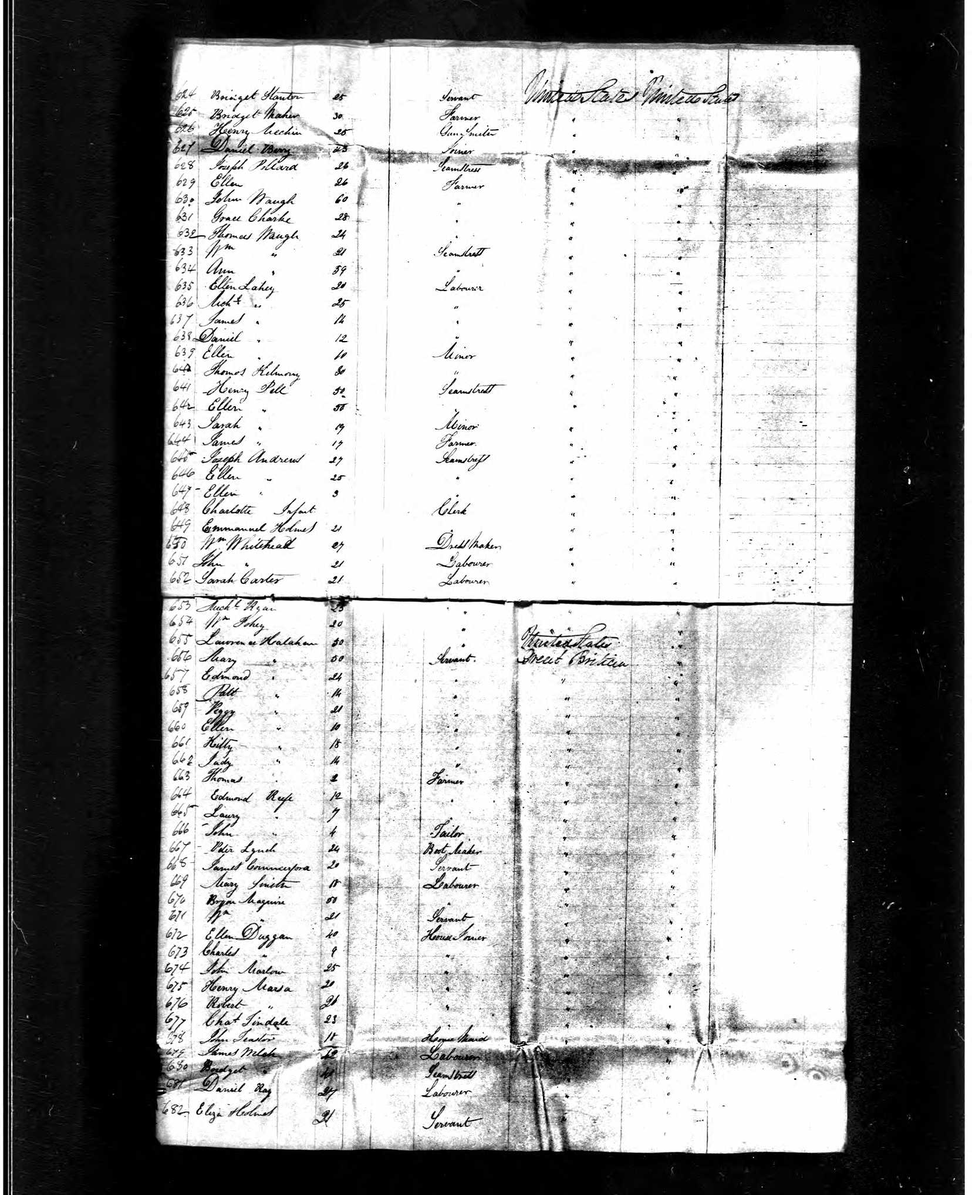
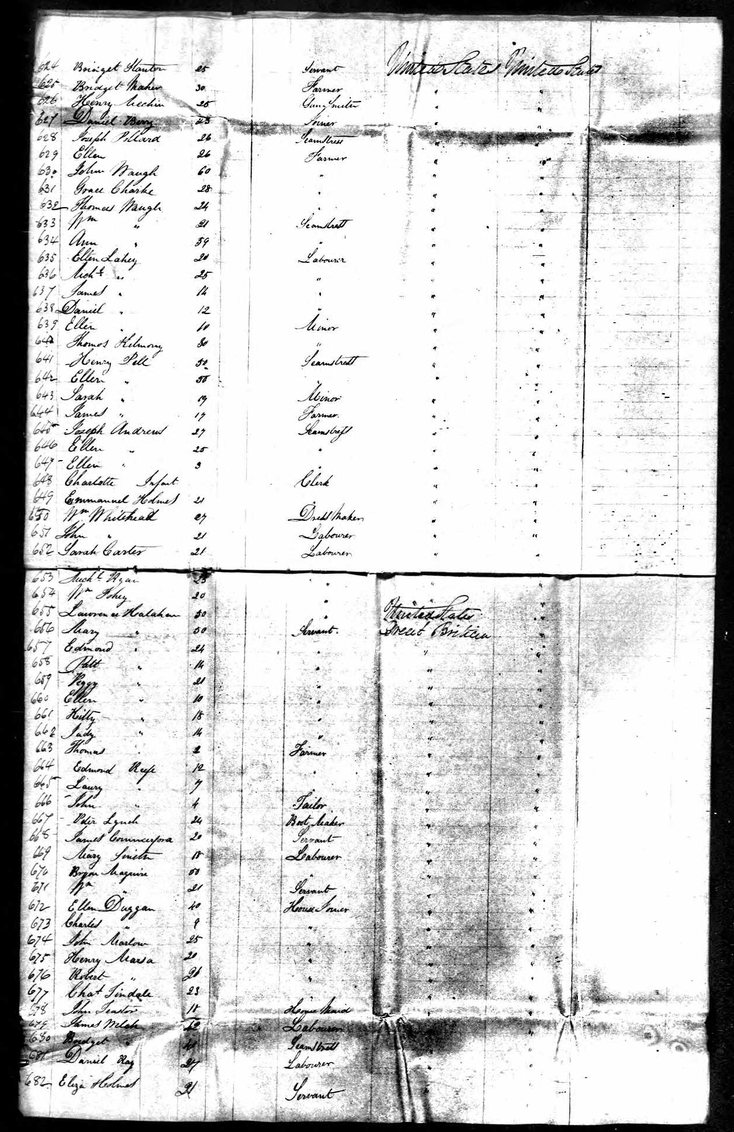
More Staten Island improvements

diff --git a/docs/people/mills-edward-hallock-1819-family/features/staten-island/index.html b/docs/people/mills-edward-hallock-1819-family/features/staten-island/index.html
@@ -22,7 +22,7 @@
 Friday 20 May 2022
 </time>
 </div><div>
-<p>It appears the Mills lived in Staten Island throughout much of the 1850&rsquo;s, and Edward may have lived there for a significant time prior. When the Mills married in 1850, Edward is said to be &ldquo;of Factoryville&rdquo;. All three Mills children were born in Staten Island. At one point, the Mills family lived with <a href=https://www.findagrave.com/memorial/199802084/bartlett-brown>Bartlett Brown</a> (1833 to 24 Nov 1902), who was also in the grocery business and appears to also be a protege of <a href=https://www.findagrave.com/memorial/199952123/charles-m-pine>Charles Mills Pine</a> (1812 to 8 Oct 1897). Charles Pine (who may have been related to Edward through Edward&rsquo;s mother) is listed as a co-owner of E. H. Mills & Co. in Corfu, but it&rsquo;s likely that Charles acted only as an investor, and perhaps also an adviser, in the business and was not involved in its day-to-day operation.</p><figure class=image style=max-width:400px><img src=/people/mills-edward-hallock-1819-family/assets/images/1851-01-03-Brooklyn-Daily-Eagle_huc08509a5fd9474424d13eb6f45834857_43206_400x0_resize_q75_box.jpg width=400 height=102 alt><blockquote>At Hempstead, L. I., Dec. 29, by the Rev. N.C. Locke, Mr. Edward H. Mills of Factoryville, S. I., to Miss Mary Ann Pine of the former place.</blockquote><figcaption>
+<p>It appears the Mills lived in Staten Island throughout the 1850&rsquo;s, and Edward may have lived there for a significant time prior. When the Mills married in 1850, Edward is said to be &ldquo;of Factoryville&rdquo;. All three Mills children were born in Staten Island. At one point, the Mills family lived with <a href=https://www.findagrave.com/memorial/199802084/bartlett-brown>Bartlett Brown</a> (1833 to 24 Nov 1902), who was also in the grocery business and appears to also be a protege of <a href=https://www.findagrave.com/memorial/199952123/charles-m-pine>Charles Mills Pine</a> (1812 to 8 Oct 1897). Charles Pine (who may have been related to Edward through Edward&rsquo;s mother) is listed as a co-owner of E. H. Mills & Co. in Corfu, but it&rsquo;s likely that Charles acted only as an investor, and perhaps also an adviser, in the business and was not involved in its day-to-day operation.</p><figure class=image style=max-width:500px><img src=/people/mills-edward-hallock-1819-family/assets/images/1851-01-03-Brooklyn-Daily-Eagle_huc08509a5fd9474424d13eb6f45834857_43206_500x0_resize_q75_box.jpg width=500 height=127 alt><blockquote>At Hempstead, L. I., Dec. 29, by the Rev. N.C. Locke, Mr. Edward H. Mills of Factoryville, S. I., to Miss Mary Ann Pine of the former place.</blockquote><figcaption>
 <p>— <cite>03 Jan 1851, The Brooklyn Daily Eagle, Brooklyn NY, p2, newspapers.com. </cite><a class=origversion href=/people/mills-edward-hallock-1819-family/assets/images/1851-01-03-Brooklyn-Daily-Eagle.jpg>View largest available size.</a></figcaption></figure></p><p>In the 1875 New York State Census, each of the children are listed with Staten Island as their birthplace (years 1852, 1854 and 1858), and they were still living in Staten Island in 1860 as reflected in the Federal Census:</p><div class=cols>
 <figure class=image style=max-width:300px><img src=/people/mills-edward-hallock-1819-family/assets/images/census/census-1860-us_hu4a999a4540b7075dfc0d87f56e447ac1_1739672_300x0_resize_q75_box.jpg width=300 height=412 alt><figcaption>
 <p>— <cite>1860, United States Federal Census, ancestry.com. </cite><a class=origversion href=/people/mills-edward-hallock-1819-family/assets/images/census/census-1860-us.jpg>View largest available size.</a></figcaption></figure></p><figure class=image style=max-width:300px><img src=/people/mills-edward-hallock-1819-family/assets/images/census/census-1875a-nys_hua5cc62b6c97b6d0db2d12f0aa08e8a06_2862862_300x0_resize_q75_box.jpg width=300 height=344 alt><figcaption>
@@ -33,10 +33,10 @@ FACTORYVILLE. West New Brighton. Map of the Village of Factoryville, owned and l
 William T. Davis, <a href=https://sites.google.com/a/nypl.org/staten-island-papers/old-place-names>Staten Island’s Old Place Names</a>.
 </figcaption></figure><p>The 1860 census also shows that Edward and his family are living with Bartlett Brown, and according to the following tax assessment, Bartlett also lists Factoryville in the &ldquo;Residence&rdquo; column.</p><figure class=image style=max-width:1000px><img src=/people/mills-edward-hallock-1819-family/assets/images/staten-island/1862-1863-irs-tax-assessment_hufaef511aea43f8665fab343aafc0b026_636065_1000x0_resize_q75_box.jpg width=1000 height=676 alt><figcaption>
 <p>— <cite>1862-1863, Tax Assessment, Internal Revenue Service, ancestry.com. </cite><a class=origversion href=/people/mills-edward-hallock-1819-family/assets/images/staten-island/1862-1863-irs-tax-assessment.jpg>View largest available size.</a></figcaption></figure></p><p>Barlett Brown was another protege of Charles Pine, both in the grocery business, and later, succeeding Charles as President of the Richmond County Mutual Insurance Company:</p><figure class=image style=max-width:700px><img src=/people/mills-edward-hallock-1819-family/assets/images/staten-island/1902-11-29-richmond-county-advance-p4_hu84e771bd5316aa9e30bdce146b15cc03_552519_700x400_fill_box_top_3.png width=700 height=400 alt><blockquote><p>Mr. Brown was born at Oak Farm, Long Island, and was one of ten children. His parents were among the most intelligent and estimable people of that section, and he was trained to many kinds of usefulness on the farm from a very early age. Indeed, the experiences which then came to him were invaluable, and fitted him in a superior degree for the diligent, manly and honorable life which succeeded.</p><p>He began business for himself as a coal and wood merchant in the city of Brooklyn, but later, <strong>in the year 1857, he accepted a position in the grocery store of Charles M. Pine at West Brighton, and remained there, highly esteemed by the proprietor and by the many customers, until the year 1859, when he purchased the valuable property at the corner of Broadway and Castleon avenue and began business in the same line for himself. He resided in the adjoining house with his family.</strong> He was a man of the very strictest integrity in all of his affairs, and with the merchants of the city with whom he dealt, and with the other people with whom he had financial relations, he was held in the highest regard. In 1892 he retired from active life.</p><p>He set a fine example with regard to everything in which he was engaged during the forty-seven years when he made Staten Island his home. Beside the store he had a profitable cranberry business at Calverton, L.I., which he sold to a brother two years ago.</p><p>(Partial transcription, emphasis added. Click on the accompanying link to view the full article.)</p></blockquote><figcaption>
-<p>— <cite>29 Nov 1902, Richmond County Advance, West New Brighton NY, p4, newspapers.com. </cite><a class=origversion href=/people/mills-edward-hallock-1819-family/assets/images/staten-island/1902-11-29-richmond-county-advance-p4.png>View largest available size.</a></figcaption></figure></p><p>If Bartlett&rsquo;s obituary is accurate, then in 1860, the Mills were residing with Bartlett at &ldquo;the adjoining house&rdquo; to &ldquo;the valuable property at the corner of Broadway and Castleton Avenue&rdquo;. Comparing a number of historical maps of Castleton to present day maps, it is striking how the major road names and their courses have remained the same over these many years. For example, note the consistency over time in the bends in the road where Broadway intersects Richmond Terrace near Kill Van Kull. In fact this area, described elsewhere as &ldquo;the bend between Van Street and Broadway&rdquo;, is the location of Pine, Hillyer & Co. general store in 1859, co-owned by Charles Pine and James Hillyer. (1930, Charles W. Leng and William T. Davis, Staten Island and Its People, Volume II, Lewis Historical Publishing Company Inc., NY, p651.)</p><p>The Beers map from 1874 shows &ldquo;B Brown&rdquo; in the southwest corner at Broadway and Castleton, and the &ldquo;adjoining house&rdquo; would seem to be the structure at the corner of State Street and Castleton Avenue. This interpretation appears to be corroborated by the 1886 edition of Webb&rsquo;s Consolidated Directory referenced below.</p><figure class=image style=max-width:800px><img src=/people/mills-edward-hallock-1819-family/assets/images/staten-island/1874-beers-map_hue983ae5ad5e218ddc9fb57192364963a_5278618_800x0_resize_q75_box.jpg width=800 height=549 alt><figcaption>
+<p>— <cite>29 Nov 1902, Richmond County Advance, West New Brighton NY, p4, newspapers.com. </cite><a class=origversion href=/people/mills-edward-hallock-1819-family/assets/images/staten-island/1902-11-29-richmond-county-advance-p4.png>View largest available size.</a></figcaption></figure></p><p>Comparing a number of historical maps of Castleton to present day maps, it is striking how the major road names and their courses have remained the same over these many years. For example, note the consistency over time in the bends in the road where Broadway intersects Richmond Terrace near Kill Van Kull. In fact this area, described elsewhere as &ldquo;the bend between Van Street and Broadway&rdquo;, is the location of Pine, Hillyer & Co. general store in 1859, co-owned by Charles Pine and James Hillyer. (1930, Charles W. Leng and William T. Davis, Staten Island and Its People, Volume II, Lewis Historical Publishing Company Inc., NY, p651.)</p><p>If Bartlett&rsquo;s obituary is accurate, then it seems likely that in 1860, the Mills were residing with Bartlett at &ldquo;the adjoining house&rdquo; to &ldquo;the valuable property at the corner of Broadway and Castleton Avenue&rdquo;. The Beers map from 1874 shows &ldquo;B Brown&rdquo; in the southwest corner at Broadway and Castleton, and the &ldquo;adjoining house&rdquo; would seem to be the structure at the corner of State Street and Castleton Avenue. This interpretation appears to be corroborated by the 1886 edition of Webb&rsquo;s Consolidated Directory referenced below.</p><figure class=image style=max-width:800px><img src=/people/mills-edward-hallock-1819-family/assets/images/staten-island/1874-beers-map_hue983ae5ad5e218ddc9fb57192364963a_5278618_800x0_resize_q75_box.jpg width=800 height=549 alt><figcaption>
 <p>— <cite>‘Lionel Pincus and Princess Firyal Map Division, The New York Public Library. “Atlas of Staten Island, Richmond County, New York, from official records and surveys; compiled and drawn by F. W. Beers” The New York Public Library Digital Collections. 1874. <a href=https://digitalcollections.nypl.org/items/510d47e2-0b93-a3d9-e040-e00a18064a99><a href=https://digitalcollections.nypl.org/items/510d47e2-0b93-a3d9-e040-e00a18064a99>https://digitalcollections.nypl.org/items/510d47e2-0b93-a3d9-e040-e00a18064a99</a></a>’. </cite><a class=origversion href=/people/mills-edward-hallock-1819-family/assets/images/staten-island/1874-beers-map.jpg>View largest available size.</a></figcaption></figure></p><p>A closer view:</p><figure class=image style=max-width:800px><img src=/people/mills-edward-hallock-1819-family/assets/images/staten-island/1874-beers-map-cropped_huc1c3a41174cd83dba7540e3711fb3174_2396305_800x0_resize_q75_box.jpg width=800 height=720 alt><figcaption>
-<p>— <cite>‘Lionel Pincus and Princess Firyal Map Division, The New York Public Library. “Atlas of Staten Island, Richmond County, New York, from official records and surveys; compiled and drawn by F. W. Beers” The New York Public Library Digital Collections. 1874. <a href=https://digitalcollections.nypl.org/items/510d47e2-0b93-a3d9-e040-e00a18064a99><a href=https://digitalcollections.nypl.org/items/510d47e2-0b93-a3d9-e040-e00a18064a99>https://digitalcollections.nypl.org/items/510d47e2-0b93-a3d9-e040-e00a18064a99</a></a>’. </cite><a class=origversion href=/people/mills-edward-hallock-1819-family/assets/images/staten-island/1874-beers-map-cropped.jpg>View largest available size.</a></figcaption></figure></p><p>This Staten Island Directory from 1886 lists Barlett Brown’s store, referencing the residence at 114 Broadway that was mentioned in his obituary, as well as a reference to the corner of State Street and Castleton Avenue:</p><figure class=image style=max-width:500px><img src=/people/mills-edward-hallock-1819-family/assets/images/staten-island/1886-staten-island-directory-p117_hudb6d3a8b80f6f6f32248216d0afd22e7_71905_500x0_resize_q75_box.jpg width=500 height=32 alt><blockquote>Brown Bartlett, gro, 114 B&rsquo;way, h State n Cas av, W N B</blockquote><figcaption>
-<p>— <cite>1886 Webb’s Consolidated Directory of the North and South Shores Staten Island, p117, ancestry.com. </cite><a class=origversion href=/people/mills-edward-hallock-1819-family/assets/images/staten-island/1886-staten-island-directory-p117.jpg>View largest available size.</a></figcaption><aside><ul></p><li>The directory lists the following for abbreviations: &ldquo;gro, grocer; h, house; &mldr; n, near; &mldr; W N B, West New Brighton;&rdquo;. Also noted: &ldquo;The capital letter or letters at the end of each line indicates the railroad station nearest to or most convenient to the address given.&rdquo;</li></ul></aside></figure><p>Other maps showing this property include the Colton and Dripps maps:</p><figure class=image style=max-width:800px><img src=/people/mills-edward-hallock-1819-family/assets/images/staten-island/1866-colton-map-cropped_hu1bbfdb02c7825610037c946da4caec3e_465319_800x0_resize_q75_box.jpg width=800 height=592 alt><figcaption>
+<p>— <cite>‘Lionel Pincus and Princess Firyal Map Division, The New York Public Library. “Atlas of Staten Island, Richmond County, New York, from official records and surveys; compiled and drawn by F. W. Beers” The New York Public Library Digital Collections. 1874. <a href=https://digitalcollections.nypl.org/items/510d47e2-0b93-a3d9-e040-e00a18064a99><a href=https://digitalcollections.nypl.org/items/510d47e2-0b93-a3d9-e040-e00a18064a99>https://digitalcollections.nypl.org/items/510d47e2-0b93-a3d9-e040-e00a18064a99</a></a>’. </cite><a class=origversion href=/people/mills-edward-hallock-1819-family/assets/images/staten-island/1874-beers-map-cropped.jpg>View largest available size.</a></figcaption></figure></p><p>This Staten Island Directory from 1886 lists Barlett Brown’s store, referencing the residence at 114 Broadway that was mentioned in his obituary, as well as a reference to the home on the corner of State Street and Castleton Avenue:</p><figure class=image style=max-width:500px><img src=/people/mills-edward-hallock-1819-family/assets/images/staten-island/1886-staten-island-directory-p117_hudb6d3a8b80f6f6f32248216d0afd22e7_71905_500x0_resize_q75_box.jpg width=500 height=32 alt><blockquote>Brown Bartlett, gro, 114 B&rsquo;way, h State n Cas av, W N B</blockquote><figcaption>
+<p>— <cite>1886 Webb’s Consolidated Directory of the North and South Shores Staten Island, p117, ancestry.com. </cite><a class=origversion href=/people/mills-edward-hallock-1819-family/assets/images/staten-island/1886-staten-island-directory-p117.jpg>View largest available size.</a></figcaption><aside><ul></p><li>The directory lists the following for abbreviations: &ldquo;gro, grocer; h, house; &mldr; n, near; &mldr; W N B, West New Brighton;&rdquo;. Also noted: &ldquo;The capital letter or letters at the end of each line indicates the railroad station nearest to or most convenient to the address given.&rdquo;</li></ul></aside></figure><p>If I understand the maps and references correctly, Brown&rsquo;s store front faced Broadway and the front of the home faced the opposite direction onto State Street.</p><p>Other maps showing this property include the Colton and Dripps maps:</p><figure class=image style=max-width:800px><img src=/people/mills-edward-hallock-1819-family/assets/images/staten-island/1866-colton-map-cropped_hu1bbfdb02c7825610037c946da4caec3e_465319_800x0_resize_q75_box.jpg width=800 height=592 alt><figcaption>
 <p>— <cite>Lionel Pincus and Princess Firyal Map Division, The New York Public Library. “Map of Staten Island, Richmond County, State of New York” The New York Public Library Digital Collections. 1866. <a href=https://digitalcollections.nypl.org/items/00e88990-1d60-0131-f6f3-58d385a7b928><a href=https://digitalcollections.nypl.org/items/00e88990-1d60-0131-f6f3-58d385a7b928>https://digitalcollections.nypl.org/items/00e88990-1d60-0131-f6f3-58d385a7b928</a></a>. </cite><a class=origversion href=/people/mills-edward-hallock-1819-family/assets/images/staten-island/1866-colton-map-cropped.jpg>View largest available size.</a></figcaption></figure></p><figure class=image style=max-width:800px><img src=/people/mills-edward-hallock-1819-family/assets/images/staten-island/1872-dripps-map-cropped_hue742d91428d0b5e84623ce45f9418f37_628647_800x0_resize_q75_box.jpg width=800 height=611 alt><figcaption>
 <p>— <cite>Map of Staten Island (Richmond Co.) N.Y. Also cities of Bayonne & Perth Amboy, and village of Woodbridge, N.J. Shewing topography, farms, shore soundings &c. Published by M. Dripps, 34 Vesey St., N.Y. Mayer & Merkel, Lith., 24 Church St., N.Y. 1872., David Rumsey Map Collection, davidrumsey.com. </cite><a class=origversion href=/people/mills-edward-hallock-1819-family/assets/images/staten-island/1872-dripps-map-cropped.jpg>View largest available size.</a></figcaption></figure></p><p>A partial timeline of events in Staten Island while the Mills lived there:</p><figure class=quote-only>
 <blockquote>
@@ -46,7 +46,7 @@ Time Line, <a href=https://www.statenislandhistorian.com/time-line.html>Staten I
 <p>— <cite>1865, New York, U.S., State Census, ancestry.com. </cite><a class=origversion href=/people/mills-edward-hallock-1819-family/assets/images/staten-island/census-1865-nys-brown.jpg>View largest available size.</a></figcaption></figure></p><p>As already mentioned, Charles M. Pine and James Hillyer were listed as co-owners of E. H. Mills & Co. in Corfu:</p><figure class=image style=max-width:400px><img src=/people/mills-edward-hallock-1819-family/assets/images/corfu/1869-Gazetteer-Business-Directory-Genesee-County-inset_huccec0b5d545020daef3de2a51a97ae5c_254321_400x0_resize_q75_box.jpg width=400 height=86 alt><blockquote>Mills, Edward H., (Corfu,) E. H. Mills & Co.)
 Mills, E. H. & Co. (Corfu,) (Edward H. Mills, Charles M. Pine and James M. Hillyer,) general merchants.</blockquote><figcaption>
 <p>— <cite>1869-70 Gazetteer and Business Directory of Genesee County NY, p199, ancestry.com. </cite><a class=origversion href=/people/mills-edward-hallock-1819-family/assets/images/corfu/1869-Gazetteer-Business-Directory-Genesee-County-inset.jpg>View largest available size.</a></figcaption></figure></p><p>(James M. Hillyer is a presumed misprint of James A. Hillyer.)</p><p>Further investigation is needed, but an obvious concrete question to explore is whether or not Charles M. Pine is related to Edward&rsquo;s wife Mary Ann, whose maiden name is Pine. Charles Pine married Almira (sometimes spelled &ldquo;Elmira&rdquo;, although &ldquo;Almira&rdquo; appears to be correct) Jane Loper in 1835 in South Hempstead, New York:</p><figure class=image style=max-width:700px><img src=/people/mills-edward-hallock-1819-family/assets/images/staten-island/1835-02-21-charles-pine_hub21a191e9c0d1ffd94725d1b86e50258_1262585_700x0_resize_q75_box.jpg width=700 height=368 alt><blockquote><p>Vol. V, No. 238 - February 21, 1835.</p><p>&mldr; In Hempstead, L.I., Mr. Charles Pine, of the firm of Weeks, Seaman & Pine to Almira Jane, daughter of Luther Loper. &mldr;</p></blockquote><figcaption>
-<p>— <cite>U.S., Newspaper Extractions from the Northeast, 1704-1930, ancestry.com. </cite><a class=origversion href=/people/mills-edward-hallock-1819-family/assets/images/staten-island/1835-02-21-charles-pine.jpg>View largest available size.</a></figcaption></figure></p><p>Charles lists himself as a merchant in Castleton in the 1850 Federal census, and James Hillyer lives with the Pine family, as a clerk in Charles&rsquo; store.</p><figure class=image style=max-width:400px><img src=/people/mills-edward-hallock-1819-family/assets/images/staten-island/1850-us-census-castleton_huf3f98c03278c0a992fb5eba404da8e64_1039532_400x0_resize_q75_box.jpg width=400 height=476 alt><figcaption>
+<p>— <cite>U.S., Newspaper Extractions from the Northeast, 1704-1930, ancestry.com. </cite><a class=origversion href=/people/mills-edward-hallock-1819-family/assets/images/staten-island/1835-02-21-charles-pine.jpg>View largest available size.</a></figcaption></figure></p><p>Charles lists himself as a merchant in Castleton in the 1850 Federal census, and James Hillyer lives with the Pine family, as a clerk, presumably in Charles&rsquo; store.</p><figure class=image style=max-width:400px><img src=/people/mills-edward-hallock-1819-family/assets/images/staten-island/1850-us-census-castleton_huf3f98c03278c0a992fb5eba404da8e64_1039532_400x0_resize_q75_box.jpg width=400 height=476 alt><figcaption>
 <p>— <cite>13 Jul 1850, United States Federal Census, Castleton NY, p13, ancestry.com. </cite><a class=origversion href=/people/mills-edward-hallock-1819-family/assets/images/staten-island/1850-us-census-castleton.jpg>View largest available size.</a></figcaption></figure></p><p>Charles Pine was a prominent and prolific business man who was a central figure in the lives of many other successful proteges and business partners that included Edward Mills, Bartlett Brown, James Hillyer, George Mersereau (who is also listed residing with Charles Pine in the 1950 census) and Charles&rsquo; own son, <a href=https://www.findagrave.com/memorial/26215884/charles-theodore-pine>Charles Theodore Pine</a> (? to 26 May 1895).</p><figure class=quote-only>
 <blockquote>
 <p>At West New Brighton there were in 1859:</p><p>William Bamber, painter, on Water Street; Abraham Jones, painter, on Water Street; James Burgher, mason and builder; Daniel A. Smith, mason and builder; William Vroom, mason and builder; J. J. Clute, engineer and surveyor; R. M. Cary, Comfort Home, engineer and surveyor; F. Rossback, tailor; Benjamin F. Cook, tailor; T. Smith, Cherry Lane Nursery, whose plantings may still be recognized; J. M. Snedeker, merchant; <strong>C. M. Pine, merchant;</strong> John Balzer, hotel; Matthew Cain, Castleton Shade House, George W. Vroom, grocer, Castleton Four Corners; Stephen Martling, grocer; W. J. Bodem (Bodine), building material and fuel; Bodine Bros., building materials, at the mouth of Palmer’s Run, planing mill on the water side of the Shore Road; Bodine Bros. Mill Pond; Ford’s Dock, opposite Church of the Ascension; <strong> Pine Hillyer &  Co., general  store  on  the  bend between Van Street and Broadway;</strong> W. H. Bodine, Castleton House, foot of Van Street; Cornelius DuBois, 22 acre Manor Farm; J. De Groot’s store; P. Carlin’s store, near brook crossing Broadway above South Street; H. Fountain’s Hotel, near Trinity Chapel, now Church of Ascension; Old Store and Mill, and <strong>C. M. Pine &  Co’s.,  store;</strong> Coal Yard; Frederick Reissenweber, tinsmith at Four Corners.</p><p> In the vicinity of New Brighton there were in 1859:</p><p>Mark Cox, painter, Jersey Street; Joseph Easterbrook, mason and builder; James Easterbrook, mason and builder; Cary Deven, mason and builder; James Dowd, mason and builder; William Heath, mason and builder; Benjamin P. Brower, merchant, store and post office ; Martin Weiner, Ferry House Saloon ; G. Pero, planing mill, near foot of York Avenue ; Pero Bros., lumber yard, near foot of York Avenue ; James Dempsey, livery stable, foot of York Avenue ; <strong> Hillyer &  Hartley,  grocers ;</strong> Assembly Rooms, on Fifth Street near Westervelt Avenue; Pavilion Hotel, M. Blanchard; Belmont Hotel, Richmond Terrace and Westervelt Avenue; St. Mark’s Hotel, DeCamp &  Johnson,  proprietors; Hotel on Wilkinson Estate; Cottage Tavern, M. Farley, on Lafayette Avenue; Carey’s Hotel, on New Brighton Dock; T. Dunn’s Hotel, on York Avenue; Half Way House, on Jersey Street.</p></blockquote><figcaption>

diff --git a/docs/people/mills-edward-hallock-1819-family/index.html b/docs/people/mills-edward-hallock-1819-family/index.html
@@ -43,7 +43,7 @@
 </div><div class=content><p>Horace F. Mills, born 1854, Staten Island, NY, died 27 October 1876, Corfu NY. Second child of Edward H. and Mary Ann Mills.</p><a href=https://memills.com/people/mills-edward-hallock-1819-family/mills-horace-f-1854/ class=more-link>read more</a>
 </div></article><article class=summary>
 <h2><a href=https://memills.com/people/mills-edward-hallock-1819-family/mills-mary-emily-1858/>Emily Mills</a></h2><div class=meta>
-<time>Wednesday 18 May 2022</time>
+<time>Friday 20 May 2022</time>
 </div><div class=content><p>Mary Emily Mills, born Dec 1858 Staten Island, NY, died 03 Nov 1937 Brooktondale NY, who commonly went by Emily, and in more formal contexts, M. Emily Mills or M. E. Mills. Youngest child of Edward Hallock and Mary Ann Mills. Proprietor, <a href=https://memills.com/people/mills-edward-hallock-1819-family/features/me-mills/>M. E. Mills</a> general store in Brookton/Brooktondale NY. Active in the <a href=https://memills.com/people/mills-edward-hallock-1819-family/features/temperance/>temperance movement</a> in the Independent Order of Good Templars and the Women&rsquo;s Christian Temperance Union, as well as Sunday School teacher and piano player in Brooktonale Congregational Church, now Caroline Valley Community Church.</p><a href=https://memills.com/people/mills-edward-hallock-1819-family/mills-mary-emily-1858/ class=more-link>read more</a>
 </div></article><article class=summary>
 <h2><a href=https://memills.com/people/mills-edward-hallock-1819-family/mills-hannah-1824/>Hannah Mills</a></h2><div class=meta>
@@ -78,7 +78,7 @@
 </div></article><article class=summary>
 <h2><a href=https://memills.com/people/mills-edward-hallock-1819-family/features/staten-island/>The Mills Family in Staten Island NY</a></h2><div class=meta>
 <time>Friday 20 May 2022</time>
-</div><div class=content><p>It appears the Mills lived in Staten Island throughout much of the 1850&rsquo;s, and Edward may have lived there for a significant time prior. When the Mills married in 1850, Edward is said to be &ldquo;of Factoryville&rdquo;. All three Mills children were born in Staten Island. At one point, the Mills family lived with <a href=https://www.findagrave.com/memorial/199802084/bartlett-brown>Bartlett Brown</a> (1833 to 24 Nov 1902), who was also in the grocery business and appears to also be a protege of <a href=https://www.findagrave.com/memorial/199952123/charles-m-pine>Charles Mills Pine</a> (1812 to 8 Oct 1897). Charles Pine (who may have been related to Edward through Edward&rsquo;s mother) is listed as a co-owner of E. H. Mills & Co. in Corfu, but it&rsquo;s likely that Charles acted only as an investor, and perhaps also an adviser, in the business and was not involved in its day-to-day operation.</p><a href=https://memills.com/people/mills-edward-hallock-1819-family/features/staten-island/ class=more-link>read more</a>
+</div><div class=content><p>It appears the Mills lived in Staten Island throughout the 1850&rsquo;s, and Edward may have lived there for a significant time prior. When the Mills married in 1850, Edward is said to be &ldquo;of Factoryville&rdquo;. All three Mills children were born in Staten Island. At one point, the Mills family lived with <a href=https://www.findagrave.com/memorial/199802084/bartlett-brown>Bartlett Brown</a> (1833 to 24 Nov 1902), who was also in the grocery business and appears to also be a protege of <a href=https://www.findagrave.com/memorial/199952123/charles-m-pine>Charles Mills Pine</a> (1812 to 8 Oct 1897). Charles Pine (who may have been related to Edward through Edward&rsquo;s mother) is listed as a co-owner of E. H. Mills & Co. in Corfu, but it&rsquo;s likely that Charles acted only as an investor, and perhaps also an adviser, in the business and was not involved in its day-to-day operation.</p><a href=https://memills.com/people/mills-edward-hallock-1819-family/features/staten-island/ class=more-link>read more</a>
 </div></article><article class=summary>
 <h2><a href=https://memills.com/people/mills-edward-hallock-1819-family/features/genealogy/>Genealogy and Long Island Origins</a></h2><div class=meta>
 <time>Friday 29 Apr 2022</time>

diff --git a/docs/people/mills-edward-hallock-1819-family/gould-ellen/index.html b/docs/people/mills-edward-hallock-1819-family/gould-ellen/index.html
@@ -41,7 +41,7 @@ Thursday 19 May 2022
 <blockquote>
 <p>Ellen Jane Andrews (1848-1929) was born in Bourne, Lincolnshire, England as were both of her parents. And her parents were married in Bourne.</p><p>…Ellen Jane Andrews (age 3) arrived with her parents Joseph (age 27) and Ellen Pell Andrews (25) and Charlotte (infant) on 6/21/1851 in NYC. The passenger and Crew List (including Castle Garden and Ellis Island) 1820-1957 is found in Ancestry.com. Also on the passenger list is Henry Pell (age 50) and his wife Ellen Newton (age 50). Ellen Jane's maternal grandparents. And two of Ellen Pell Andrews siblings Sarah (age 19) and James (age 17). Of the 760 names on the passenger list of the Western World that sailed from Liverpool, England I do not find any other Andrews. So I think Joseph and Ellen Pell Andrews were sailing with Ellen's parents. Joseph and Ellen Newton Pell both died in the 1880 in Howell, Michigan.</p><p>…There was a Andrews family in Ithaca but it appears to not be our Ellen Jane Andrews parents.</p></blockquote><figcaption>
 — <cite>07 May 2022, personal correspondence with Carol Coggshall, great great granddaughter of Ellen Gould.</cite>
-</figcaption></figure><figure class=image style=max-width:800px><img src=/people/mills-edward-hallock-1819-family/assets/images/1851-06-21-Western-World_huccdb005aa166728cda443f361368d6be_330076_800x0_resize_q75_box.jpg width=800 height=984 alt><figcaption>
+</figcaption></figure><figure class=image style=max-width:500px><img src=/people/mills-edward-hallock-1819-family/assets/images/1851-06-21-Western-World_hu2b513ea44aa20771a4e3663f7b091f48_1212789_500x0_resize_q75_box.jpg width=500 height=771 alt><figcaption>
 <p>— <cite>New York, U.S., Arriving Passenger and Crew Lists (including Castle Garden and Ellis Island), 1820-1957. Year: 1830; Arrival: New York, New York, USA; Microfilm Serial: M237, 1820-1897; Line: 1; List Number: 335, ancestry.com. </cite><a class=origversion href=/people/mills-edward-hallock-1819-family/assets/images/1851-06-21-Western-World.jpg>View largest available size.</a></figcaption></figure></p><p>The first (presumed) mention of Ellen in connection to the Mills family is an entry made by Emily in the sales journal of <a href=/people/mills-edward-hallock-1819-family/features/me-mills/> E. H. Mills general store</a>: &ldquo;1908, Jan 23, Sewing by Mrs. Gould, 0.75&rdquo;.</p><figure class=image style=max-width:500px><img src=/people/mills-edward-hallock-1819-family/assets/images/ellen-gould/1909-03-06-Alfred-Gould-Died_hue78d141fb8d3be55359a61f2dad054c3_177637_500x0_resize_q75_box.jpg width=500 height=120 alt><blockquote><p>Alfred Gould Died</p><p>Mar 6th 1909 no sleighing</p></blockquote><figcaption>
 <p>— <cite>Notebooks of George E. Jansen, Tompkins County History Center. </cite><a class=origversion href=/people/mills-edward-hallock-1819-family/assets/images/ellen-gould/1909-03-06-Alfred-Gould-Died.jpg>View largest available size.</a></figcaption></figure></p><p>It isn&rsquo;t clear when exactly Ellen started living in the Mills&rsquo; home, but she may have lived there roughly a decade, or possibly a dozen years. In late 1914, when Ellen is first mentioned in the &ldquo;gossip columns&rdquo; in relation to the Mills, Ellen had been widowed a second time, and it is in the final few years of Hannah&rsquo;s life. Ellen was getting older herself, and this arrangement not only helped Emily care for Hannah, but also provided Ellen with additional social and financial support. It had the added benefit of being a short walk from both the Baptist Church, and her son Myron Predmore&rsquo;s farm, located near Brookton Depot, in the area where the gravel pit is presently.</p><div class=cols>
 <figure class=image style=max-width:350px><img src=/people/mills-edward-hallock-1819-family/assets/images/1914-10-26-ithaca-journal_hu6a0280723ffe5956400d52698d446576_12516_350x0_resize_q75_box.jpg width=350 height=32 alt><blockquote>Mrs. Hannah Mills is very feeble.</blockquote><figcaption>

diff --git a/docs/people/mills-edward-hallock-1819-family/features/index.html b/docs/people/mills-edward-hallock-1819-family/features/index.html
@@ -43,7 +43,7 @@
 </div></article><article class=summary>
 <h2><a href=https://memills.com/people/mills-edward-hallock-1819-family/features/staten-island/>The Mills Family in Staten Island NY</a></h2><div class=meta>
 <time>Friday 20 May 2022</time>
-</div><div class=content><p>It appears the Mills lived in Staten Island throughout much of the 1850&rsquo;s, and Edward may have lived there for a significant time prior. When the Mills married in 1850, Edward is said to be &ldquo;of Factoryville&rdquo;. All three Mills children were born in Staten Island. At one point, the Mills family lived with <a href=https://www.findagrave.com/memorial/199802084/bartlett-brown>Bartlett Brown</a> (1833 to 24 Nov 1902), who was also in the grocery business and appears to also be a protege of <a href=https://www.findagrave.com/memorial/199952123/charles-m-pine>Charles Mills Pine</a> (1812 to 8 Oct 1897). Charles Pine (who may have been related to Edward through Edward&rsquo;s mother) is listed as a co-owner of E. H. Mills & Co. in Corfu, but it&rsquo;s likely that Charles acted only as an investor, and perhaps also an adviser, in the business and was not involved in its day-to-day operation.</p><a href=https://memills.com/people/mills-edward-hallock-1819-family/features/staten-island/ class=more-link>read more</a>
+</div><div class=content><p>It appears the Mills lived in Staten Island throughout the 1850&rsquo;s, and Edward may have lived there for a significant time prior. When the Mills married in 1850, Edward is said to be &ldquo;of Factoryville&rdquo;. All three Mills children were born in Staten Island. At one point, the Mills family lived with <a href=https://www.findagrave.com/memorial/199802084/bartlett-brown>Bartlett Brown</a> (1833 to 24 Nov 1902), who was also in the grocery business and appears to also be a protege of <a href=https://www.findagrave.com/memorial/199952123/charles-m-pine>Charles Mills Pine</a> (1812 to 8 Oct 1897). Charles Pine (who may have been related to Edward through Edward&rsquo;s mother) is listed as a co-owner of E. H. Mills & Co. in Corfu, but it&rsquo;s likely that Charles acted only as an investor, and perhaps also an adviser, in the business and was not involved in its day-to-day operation.</p><a href=https://memills.com/people/mills-edward-hallock-1819-family/features/staten-island/ class=more-link>read more</a>
 </div></article><article class=summary>
 <h2><a href=https://memills.com/people/mills-edward-hallock-1819-family/features/genealogy/>Genealogy and Long Island Origins</a></h2><div class=meta>
 <time>Friday 29 Apr 2022</time>

diff --git a/docs/people/mills-edward-hallock-1819-family/mills-mary-emily-1858/index.html b/docs/people/mills-edward-hallock-1819-family/mills-mary-emily-1858/index.html
@@ -18,8 +18,8 @@
 </nav></header><main class=single>
 <article>
 <h1>Emily Mills</h1><div class=meta>Last Update:
-<time datetime="Wednesday 18 May 2022" class=text-muted>
-Wednesday 18 May 2022
+<time datetime="Friday 20 May 2022" class=text-muted>
+Friday 20 May 2022
 </time>
 </div><aside><nav id=TableOfContents>
 <ul>

diff --git a/content/people/mills-edward-hallock-1819-family/features/staten-island.md b/content/people/mills-edward-hallock-1819-family/features/staten-island.md
@@ -3,12 +3,12 @@ title: "The Mills Family in Staten Island NY"
 weight: 6
 ---
 
-It appears the Mills lived in Staten Island throughout much of the 1850's, and Edward may have lived there for a significant time prior. When the Mills married in 1850, Edward is said to be "of Factoryville". All three Mills children were born in Staten Island. At one point, the Mills family lived with [Bartlett Brown](https://www.findagrave.com/memorial/199802084/bartlett-brown) (1833 to 24 Nov 1902), who was also in the grocery business and appears to also be a protege of [Charles Mills Pine](https://www.findagrave.com/memorial/199952123/charles-m-pine) (1812 to 8 Oct 1897). Charles Pine (who may have been related to Edward through Edward's mother) is listed as a co-owner of E. H. Mills & Co. in Corfu, but it's likely that Charles acted only as an investor, and perhaps also an adviser, in the business and was not involved in its day-to-day operation. 
+It appears the Mills lived in Staten Island throughout the 1850's, and Edward may have lived there for a significant time prior. When the Mills married in 1850, Edward is said to be "of Factoryville". All three Mills children were born in Staten Island. At one point, the Mills family lived with [Bartlett Brown](https://www.findagrave.com/memorial/199802084/bartlett-brown) (1833 to 24 Nov 1902), who was also in the grocery business and appears to also be a protege of [Charles Mills Pine](https://www.findagrave.com/memorial/199952123/charles-m-pine) (1812 to 8 Oct 1897). Charles Pine (who may have been related to Edward through Edward's mother) is listed as a co-owner of E. H. Mills & Co. in Corfu, but it's likely that Charles acted only as an investor, and perhaps also an adviser, in the business and was not involved in its day-to-day operation. 
 
 <!--more-->
 
 
-{{% fig "1851-01-03-Brooklyn-Daily-Eagle" "400" /%}}
+{{% fig "1851-01-03-Brooklyn-Daily-Eagle" "500" /%}}
 
 In the 1875 New York State Census, each of the children are listed with Staten Island as their birthplace (years 1852, 1854 and 1858), and they were still living in Staten Island in 1860 as reflected in the Federal Census:
 
@@ -44,9 +44,9 @@ He set a fine example with regard to everything in which he was engaged during t
 (Partial transcription, emphasis added. Click on the accompanying link to view the full article.)
 {{% /fig %}}
 
-If Bartlett's obituary is accurate, then in 1860, the Mills were residing with Bartlett at "the adjoining house" to "the valuable property at the corner of Broadway and Castleton Avenue". Comparing a number of historical maps of Castleton to present day maps, it is striking how the major road names and their courses have remained the same over these many years. For example, note the consistency over time in the bends in the road where Broadway intersects Richmond Terrace near Kill Van Kull. In fact this area, described elsewhere as "the bend between Van Street and Broadway", is the location of Pine, Hillyer & Co. general store in 1859, co-owned by Charles Pine and James Hillyer. (1930, Charles W. Leng and William T. Davis, Staten Island and Its People, Volume II, Lewis Historical Publishing Company Inc., NY, p651.) 
+Comparing a number of historical maps of Castleton to present day maps, it is striking how the major road names and their courses have remained the same over these many years. For example, note the consistency over time in the bends in the road where Broadway intersects Richmond Terrace near Kill Van Kull. In fact this area, described elsewhere as "the bend between Van Street and Broadway", is the location of Pine, Hillyer & Co. general store in 1859, co-owned by Charles Pine and James Hillyer. (1930, Charles W. Leng and William T. Davis, Staten Island and Its People, Volume II, Lewis Historical Publishing Company Inc., NY, p651.) 
 
-The Beers map from 1874 shows "B Brown" in the southwest corner at Broadway and Castleton, and the "adjoining house" would seem to be the structure at the corner of State Street and Castleton Avenue. This interpretation appears to be corroborated by the 1886 edition of Webb's Consolidated Directory referenced below.
+If Bartlett's obituary is accurate, then it seems likely that in 1860, the Mills were residing with Bartlett at "the adjoining house" to "the valuable property at the corner of Broadway and Castleton Avenue". The Beers map from 1874 shows "B Brown" in the southwest corner at Broadway and Castleton, and the "adjoining house" would seem to be the structure at the corner of State Street and Castleton Avenue. This interpretation appears to be corroborated by the 1886 edition of Webb's Consolidated Directory referenced below.
 
 {{% fig "staten-island/1874-beers-map" "800" /%}}
 
@@ -54,9 +54,11 @@ A closer view:
 
 {{% fig "staten-island/1874-beers-map-cropped" "800" /%}}
 
-This Staten Island Directory from 1886 lists Barlett Brown’s store, referencing the residence at 114 Broadway that was mentioned in his obituary, as well as a reference to the corner of State Street and Castleton Avenue:
+This Staten Island Directory from 1886 lists Barlett Brown’s store, referencing the residence at 114 Broadway that was mentioned in his obituary, as well as a reference to the home on the corner of State Street and Castleton Avenue:
 
 {{% fig "staten-island/1886-staten-island-directory-p117" "500" /%}}
+
+If I understand the maps and references correctly, Brown's store front faced Broadway and the front of the home faced the opposite direction onto State Street.
 
 Other maps showing this property include the Colton and  Dripps maps:
 
@@ -106,7 +108,7 @@ Further investigation is needed, but an obvious concrete question to explore is 
 
 {{% fig "staten-island/1835-02-21-charles-pine" "700" /%}}
 
-Charles lists himself as a merchant in Castleton in the 1850 Federal census, and James Hillyer lives with the Pine family, as a clerk in Charles' store. 
+Charles lists himself as a merchant in Castleton in the 1850 Federal census, and James Hillyer lives with the Pine family, as a clerk, presumably in Charles' store. 
 
 {{% fig "staten-island/1850-us-census-castleton" "400" /%}}
 

diff --git a/content/people/mills-edward-hallock-1819-family/gould-ellen.md b/content/people/mills-edward-hallock-1819-family/gould-ellen.md
@@ -34,7 +34,7 @@ The following historical research comes from a direct descendent of Ellen Gould:
 </figcaption>
 </figure>
 
-{{% fig "1851-06-21-Western-World" "800" /%}}
+{{% fig "1851-06-21-Western-World" "500" /%}}
 
 The first (presumed) mention of Ellen in connection to the Mills family is an entry made by Emily in the sales journal of <a href="{{% relref "features/me-mills" %}}"> E. H. Mills general store</a>: "1908, Jan 23, Sewing by Mrs. Gould, 0.75".
 
